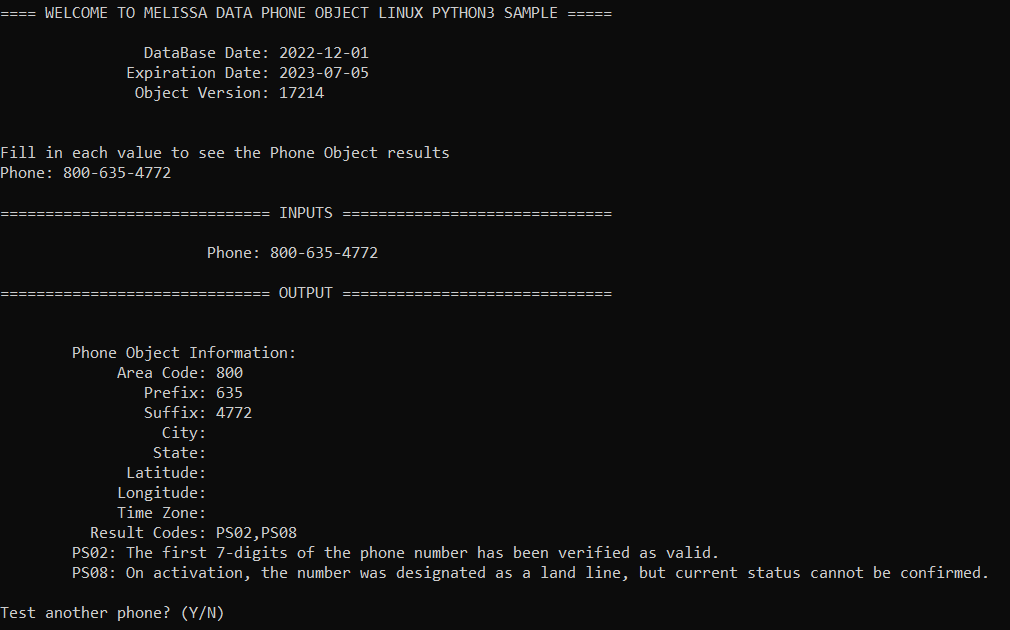
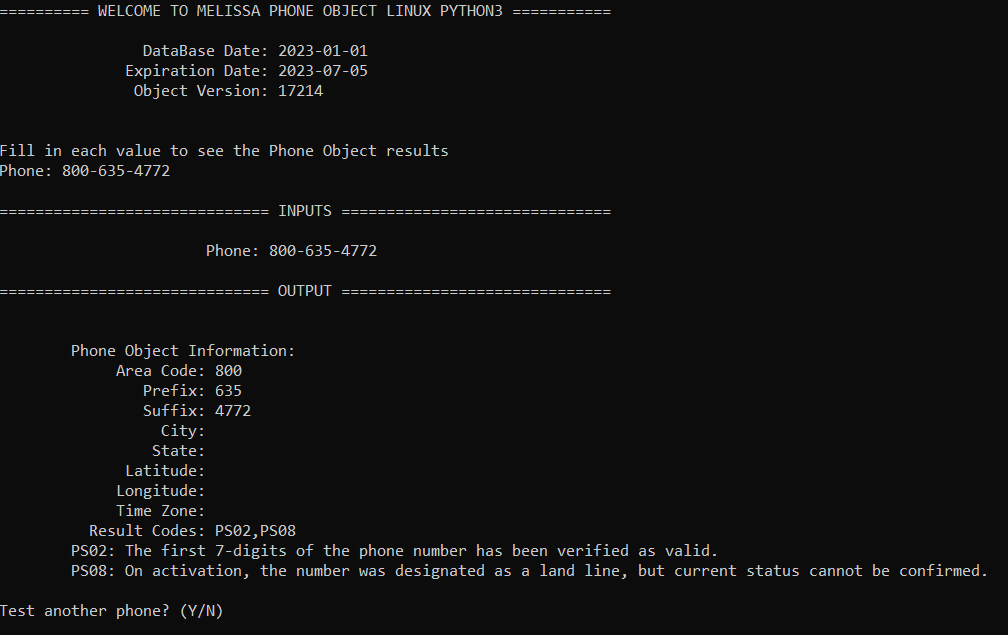
Commit Python3 code for Phone Object with release notes

diff --git a/MelissaPhoneObjectLinuxPython3/MelissaPhoneObjectLinuxPython3.py b/MelissaPhoneObjectLinuxPython3/MelissaPhoneObjectLinuxPython3.py
@@ -31,7 +31,7 @@ class PhoneObject:
         print(f"              Expiration Date: {self.md_phone_obj.GetLicenseExpirationDate()}")
       
         """
-        This number should match with file properties of the Melissa Data Object binary file.
+        This number should match with file properties of the Melissa Object binary file.
         If TEST appears with the build number, there may be a license key issue.
         """
         print(f"               Object Version: {self.md_phone_obj.GetBuildNumber()}\n")
@@ -42,8 +42,8 @@ class PhoneObject:
         result_codes = self.md_phone_obj.GetResults()
 
         """ 
-        ResultsCodes explain any issues phone object has with the object.
-        List of result codes for Phone object
+        ResultsCodes explain any issues Phone Object has with the object.
+        List of result codes for Phone Object
         https://wiki.melissadata.com/?title=Result_Code_Details#Phone_Object
         """
 
@@ -71,7 +71,7 @@ def parse_arguments():
     return (license, test_phone, data_path)
 
 def run_as_console(license, test_phone, data_path):
-    print("\n\n==== WELCOME TO MELISSA DATA PHONE OBJECT LINUX PYTHON3 SAMPLE =====\n")
+    print("\n\n========== WELCOME TO MELISSA PHONE OBJECT LINUX PYTHON3 ===========\n")
 
     phone_object = PhoneObject(license, data_path)
 
@@ -147,7 +147,7 @@ def run_as_console(license, test_phone, data_path):
             
               print("Invalid Response, please respond 'Y' or 'N'")
 
-    print("\n========== THANK YOU FOR USING MELISSA DATA PYTHON3 OBJECT =========\n")
+    print("\n============= THANK YOU FOR USING MELISSA PYTHON3 OBJECT ===========\n")
     
 
 

diff --git a/MelissaPhoneObjectLinuxPython3/mdPhone_pythoncode.py b/MelissaPhoneObjectLinuxPython3/mdPhone_pythoncode.py
@@ -7,10 +7,9 @@ dir = os.getcwd()
 
 
 if (os.name == 'nt'):
-  lib = ctypes.CDLL(f'{dir}/MelissaDataPhoneObjectWindowsPython3Sample/mdPhone.dll')
+  lib = ctypes.CDLL(f'{dir}/MelissaPhoneObjectWindowsPython3/mdPhone.dll')
 else:
-  lib = ctypes.CDLL(f'{dir}/MelissaDataPhoneObjectLinuxPython3Sample/libmdPhone.so')
-  #lib = ctypes.CDLL('libmdPhone.so')
+  lib = ctypes.CDLL(f'{dir}/MelissaPhoneObjectLinuxPython3/libmdPhone.so')
 
 lib.mdPhoneCreate.argtypes = []
 lib.mdPhoneCreate.restype = c_void_p

diff --git a/README.md b/README.md
@@ -1,8 +1,12 @@
-# Melissa Data Phone Object Linux Python3 Sample
+# Melissa - Phone Object Linux Python3
 
 ## Purpose
 
-This is a sample of the Melissa Data Phone Object using Python3
+This code showcases the Melissa Phone Object using Python3
+
+Please feel free to copy or embed this code to your own project. Happy coding!
+
+For the latest Melissa Phone Object release notes, please visit: https://releasenotes.melissa.com/on-premise-api/phone-object/
 
 The console will ask the user for:
 
@@ -30,7 +34,7 @@ And return
 
 #### libmdPhone.so
 
-This is the c++ code of the Melissa Data Object.
+This is the c++ code of the Melissa Object.
 
 #### Data File(s)
 - mdGlobalPhone.dat
@@ -44,23 +48,13 @@ These instructions will get you a copy of the project up and running on your loc
 
 This project is compatible with Python3
 
-#### Install the Python3
+#### Install Python3
 Before starting, make sure that Python3 has been correctly installed on your machine and your environment paths are configured. 
 
 You can download Python here: 
 https://www.python.org/downloads/
 
-To set up your Path correctly to use the python3 command, execute the following steps:
-1) Run Powershell as an administrator 
-2) Execute the command: 
-`New-Item -ItemType SymbolicLink -Path "Link" -Target "Target"`
-
-    where "Target" is the path to py.exe (by default this should be "C:\Windows\py.exe")\
-    and "Link" is the path to py.exe, but "py.exe" is replaced with "python3.exe"\
-    For Example:\
-    `New-Item -ItemType SymbolicLink -Path "C:\Windows\python3.exe" -Target "C:\Windows\py.exe"`
-
-If you are unsure, you can check by opening a command prompt window and typing the following:
+You can check that your environment is set up correctly by opening a command prompt window and typing the following:
 `python3 --version`
 
 ![alt text](/screenshots/python_version.PNG)
@@ -103,26 +97,26 @@ Melissa Updater is a CLI application allowing the user to update their Melissa a
 
 #### Different ways to get data file(s)
 1.  Using Melissa Updater
-	- It will handle all of the data download/path and dll(s) for you. 
-2.  If you already have the latest DQS Release (ZIP), you can find the data file(s) and dll(s) in there
-	- Use the location of where you copied/installed the data and update the "$DataPath" variable in the powershell script.
-	- Copy all the dll(s) mentioned above into the `MelissaDataPhoneObjectLinuxPython3Sample` project folder.
+	- It will handle all of the data download/path and .so file(s) for you. 
+2.  If you already have the latest DQS Release (ZIP), you can find the data file(s) and .so file(s) in there
+	- Use the location of where you copied/installed the data and update the "DataPath" variable in the bash script.
+	- Copy all the .so file(s) mentioned above into the `MelissaPhoneObjectLinuxPython3` project folder.
 	
 ----------------------------------------
 #### Change Bash Script Permissions
 To be able to run the bash script, you must first make it an executable using the command:
 
-`chmod +x MelissaDataPhoneObjectLinuxPython3Sample.sh`
+`chmod +x MelissaPhoneObjectLinuxPython3.sh`
 
 Then you need to add permissions to the build directory with the command:
 
-`chmod +rwx MelissaDataPhoneObjectLinuxPython3Sample`
+`chmod +rwx MelissaPhoneObjectLinuxPython3`
 
 As an indicator, the filename will change colors once it becomes an executable.
 
-You may also need to alter permissions for the python files. To do this navigate into the MelissaDataPhoneObjectLinuxPython3Sample directory and run these commands: \
-`chmod +rx MelissaDataPhoneObjectLinuxPython3Sample/MelissaDataPhoneObjectLinuxPython3Sample.py` \
-`chmod +rx MelissaDataPhoneObjectLinuxPython3Sample/mdPhone_pythoncode.py`
+You may also need to alter permissions for the python files. To do this navigate into the MelissaPhoneObjectLinuxPython3 directory and run these commands: \
+`chmod +rx MelissaPhoneObjectLinuxPython3/MelissaPhoneObjectLinuxPython3.py` \
+`chmod +rx MelissaPhoneObjectLinuxPython3/mdPhone_pythoncode.py`
 
 ## Run Bash Script
 Parameters:
@@ -130,31 +124,31 @@ Parameters:
  	
   This is convenient when you want to get results for a specific phone number in one run instead of testing multiple phone numbers in interactive mode.
 
-- --license (optional): a license string to test the phone object
+- --license (optional): a license string to test the Phone Object
 - --quiet (optional): add to the command if you do not want to get any console output from the Melissa Updater
 
 When you have modified the script to match your data location, let's run the script. There are two modes:
 - Interactive 
 
-	The script will prompt the user for a phone number, then use the provided number to test Phone object. For example:
+	The script will prompt the user for a phone number, then use the provided number to test Phone Object. For example:
 	```
-	$ ./MelissaDataPhoneObjectLinuxPython3Sample.sh
+	$ ./MelissaPhoneObjectLinuxPython3.sh
 	```
     For quiet mode:
     ```
-    $ ./MelissaDataPhoneObjectLinuxPython3Sample.sh --quiet
+    $ ./MelissaPhoneObjectLinuxPython3.sh -quiet
     ```
 - Command Line 
 
-	You can pass a phone number in ```--phone``` parameter and a license string in ```--license``` parameter to test Phone object. For example:
+	You can pass a phone number in ```--phone``` parameter and a license string in ```--license``` parameter to test Phone Object. For example:
 	```
-    $ ./MelissaDataPhoneObjectLinuxPython3Sample.sh --phone "800-635-4772" 
-    $ ./MelissaDataPhoneObjectLinuxPython3Sample.sh --phone "800-635-4772" --license "<your_license_string>"
+    $ ./MelissaPhoneObjectLinuxPython3.sh --phone "800-635-4772" 
+    $ ./MelissaPhoneObjectLinuxPython3.sh --phone "800-635-4772" --license "<your_license_string>"
     ```
 	For quiet mode:
     ```
-    $ ./MelissaDataPhoneObjectLinuxPython3Sample.sh --phone "800-635-4772" --quiet
-    $ ./MelissaDataPhoneObjectLinuxPython3Sample.sh --phone "800-635-4772" --license "<your_license_string>" --quiet
+    $ ./MelissaPhoneObjectLinuxPython3.sh --phone "800-635-4772" --quiet
+    $ ./MelissaPhoneObjectLinuxPython3.sh --phone "800-635-4772" --license "<your_license_string>" --quiet
     ```
 This is the expected output from a successful setup for interactive mode:
 
@@ -163,22 +157,22 @@ This is the expected output from a successful setup for interactive mode:
     
 ## Troubleshooting
 
-Troubleshooting for errors found while running your sample program.
+Troubleshooting for errors found while running your program.
 
 ### Errors:
 
 | Error      | Description |
 | ----------- | ----------- |
 | ErrorRequiredFileNotFound      | Program is missing a required file. Please check your Data folder and refer to the list of required files above. If you are unable to obtain all required files through the Melissa Updater, please contact technical support below. |
-| ErrorDatabaseExpired   | .db file(s) are expired. Please make sure you are downloading and using the latest release version. (If using the Melissa Updater, check powershell script for 'RELEASE_VERSION = {version}'  and change the release version if you are using an out of date release).     |
-| ErrorFoundOldFile   | File(s) are out of date. Please make sure you are downloading and using the latest release version. (If using the Melissa Updater, check powershell script for 'RELEASE_VERSION = {version}'  and change the release version if you are using an out of date release).    |
+| ErrorDatabaseExpired   | .db file(s) are expired. Please make sure you are downloading and using the latest release version. (If using the Melissa Updater, check bash script for 'RELEASE_VERSION = {version}'  and change the release version if you are using an out of date release).     |
+| ErrorFoundOldFile   | File(s) are out of date. Please make sure you are downloading and using the latest release version. (If using the Melissa Updater, check bash script for 'RELEASE_VERSION = {version}'  and change the release version if you are using an out of date release).    |
 | ErrorLicenseExpired   | Expired license string. Please contact technical support below. |
 
 
 ## Contact Us
 
 For free technical support, please call us at 800-MELISSA ext. 4
-(800-635-4772 ext. 4) or email us at tech@MelissaData.com.
+(800-635-4772 ext. 4) or email us at tech@melissa.com.
 
-To purchase this product, contact Melissa Data sales department at
+To purchase this product, contact Melissa sales department at
 800-MELISSA ext. 3 (800-635-4772 ext. 3).

diff --git a/LICENSE.md b/LICENSE.md
@@ -1,0 +1,21 @@
+MIT License
+
+Copyright (c) Melissa Data Corporation
+
+Permission is hereby granted, free of charge, to any person obtaining a copy
+of this software and associated documentation files (the "Software"), to deal
+in the Software without restriction, including without limitation the rights
+to use, copy, modify, merge, publish, distribute, sublicense, and/or sell
+copies of the Software, and to permit persons to whom the Software is
+furnished to do so, subject to the following conditions:
+
+The above copyright notice and this permission notice shall be included in all
+copies or substantial portions of the Software.
+
+THE SOFTWARE IS PROVIDED "AS IS", WITHOUT WARRANTY OF ANY KIND, EXPRESS OR
+IMPLIED, INCLUDING BUT NOT LIMITED TO THE WARRANTIES OF MERCHANTABILITY,
+FITNESS FOR A PARTICULAR PURPOSE AND NONINFRINGEMENT. IN NO EVENT SHALL THE
+AUTHORS OR COPYRIGHT HOLDERS BE LIABLE FOR ANY CLAIM, DAMAGES OR OTHER
+LIABILITY, WHETHER IN AN ACTION OF CONTRACT, TORT OR OTHERWISE, ARISING FROM,
+OUT OF OR IN CONNECTION WITH THE SOFTWARE OR THE USE OR OTHER DEALINGS IN THE
+SOFTWARE.
